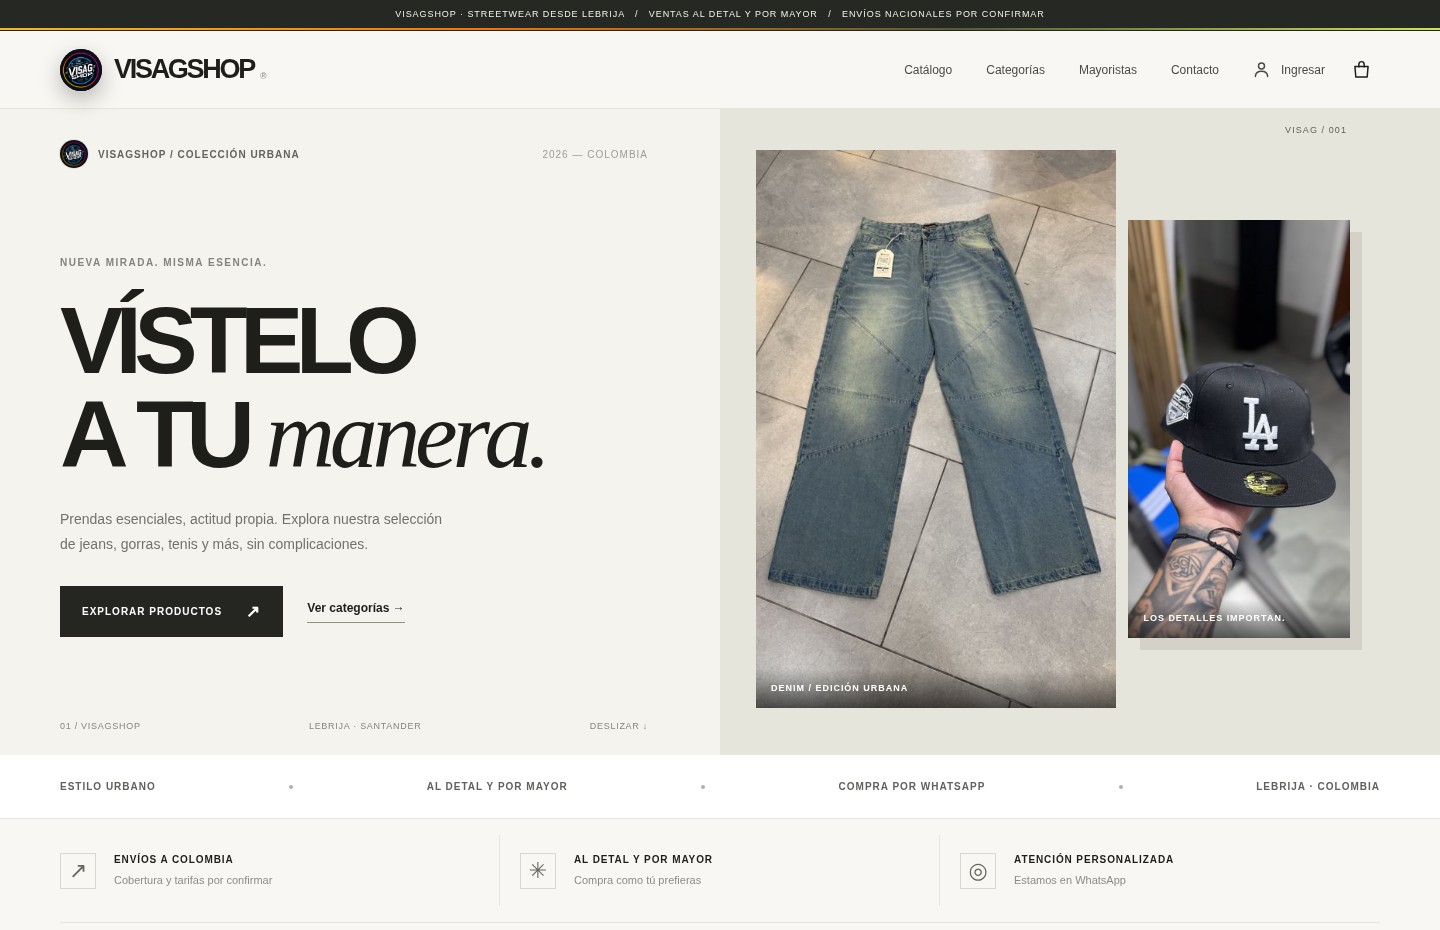
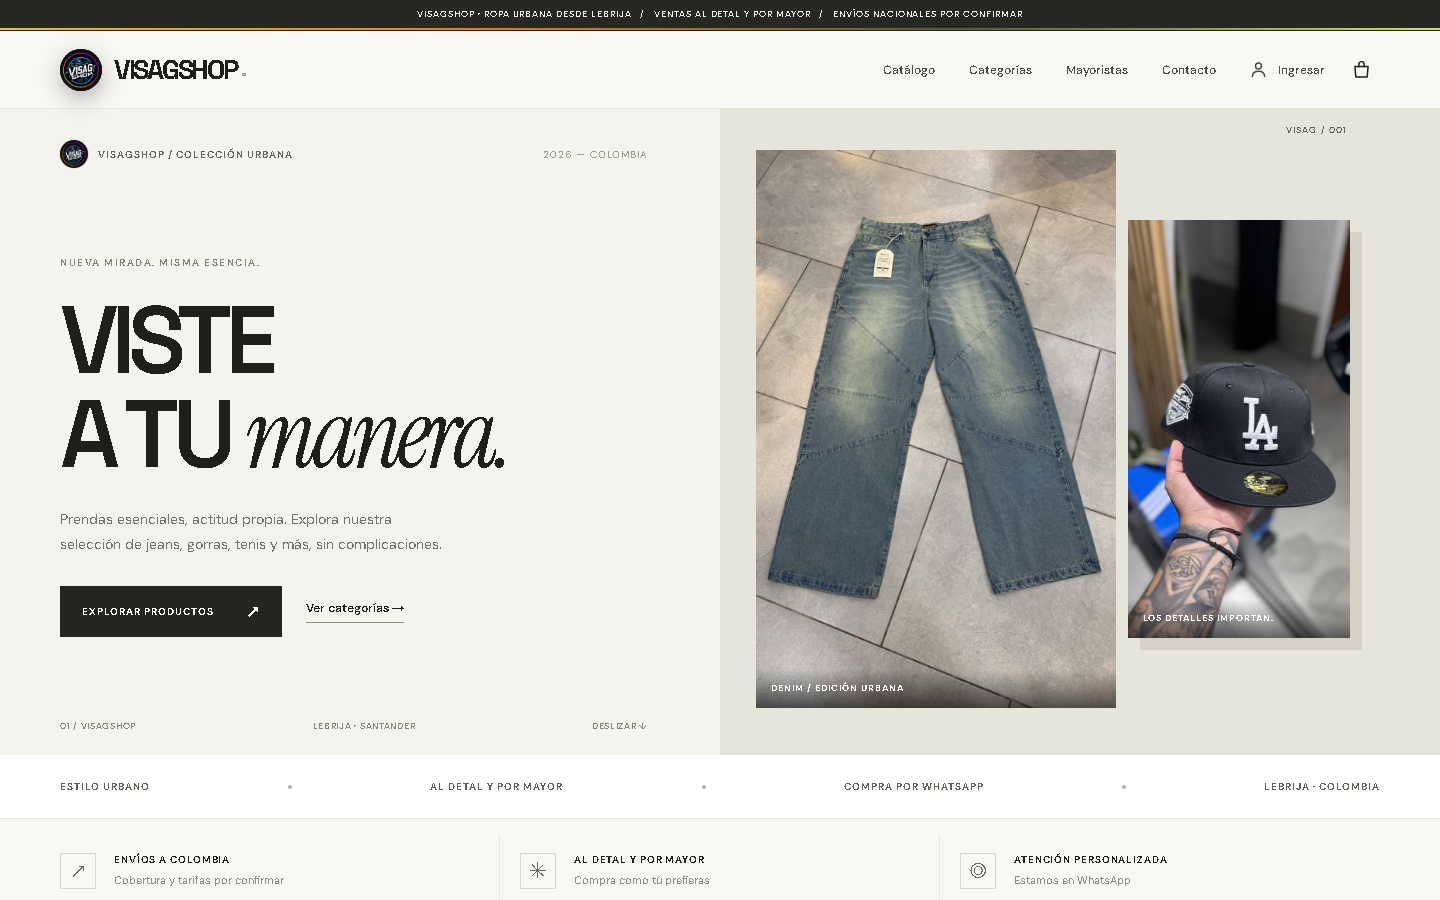
CI con GitHub Actions y capturas nuevas del README
- Workflow "Pruebas": npm test y las pruebas contra PostgreSQL 16 en cada
  cambio, con insignia en el README.
- Capturas de escritorio y celular con la portada actual.

diff --git a/README.md b/README.md
@@ -11,7 +11,9 @@
   ![Express](https://img.shields.io/badge/Express-4-262626?logo=express&logoColor=white)
   ![EJS](https://img.shields.io/badge/EJS-Plantillas-262626)
   ![PostgreSQL](https://img.shields.io/badge/PostgreSQL-Neon-262626?logo=postgresql&logoColor=white)
+  ![Sequelize](https://img.shields.io/badge/Sequelize-6-262626?logo=sequelize&logoColor=white)
   ![Estado](https://img.shields.io/badge/Estado-Demo%20en%20l%C3%ADnea-1f6f50)
+  [![Pruebas](https://github.com/stiven-triana-dev/VisagShop/actions/workflows/tests.yml/badge.svg)](https://github.com/stiven-triana-dev/VisagShop/actions/workflows/tests.yml)
 </div>
 
 ---
